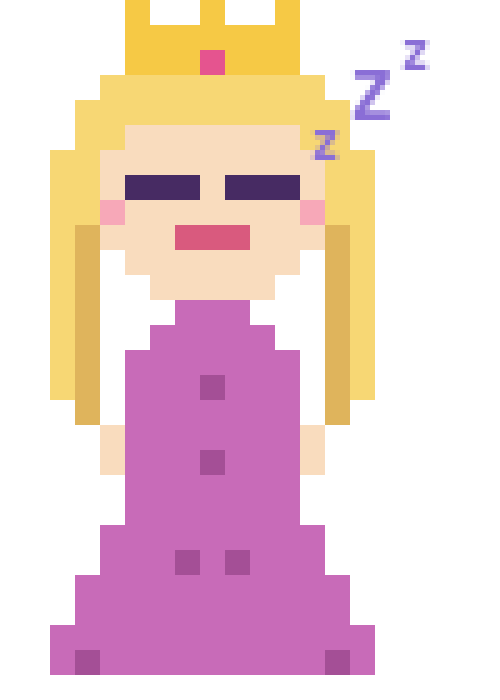
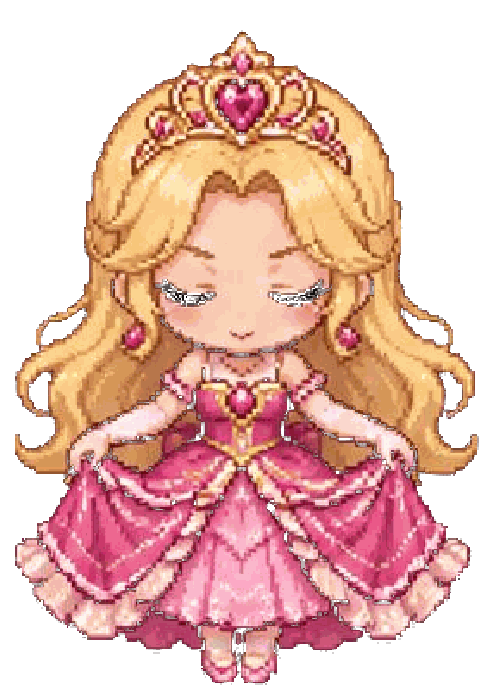
Real princess & backdrop art for all scenes and poses (#24)
* Replace placeholder pose art with chibi princess cut-sheet slices

Sliced the supplied 6x5 chibi pixel-art cut sheet, keyed out the flat
dark-purple background to transparency, and mapped the eight expressions
that best fit each pose's mood into art/poses/*.png (500x700 RGBA,
bottom-anchored to match the scene compositing):

  phone    -> bored lounging on the chaise (unimpressed)
  hair     -> preening with a hand mirror (neutral)
  nap      -> eyes closed, serene
  music    -> singing, eyes shut (smile)
  tv       -> flat zoned-out stare (neutral)
  nails    -> admiring her extended hand (unimpressed)
  snack    -> delighted, hands on cheeks, hearts (happy)
  daydream -> dreamy wink with a heart (smile)

Quantized to keep the set lean (1.7 MB -> 477 KB total). These remain
placeholders; handcrafted art can drop into the same filenames later.

Claude-Session: https://claude.ai/code/session_01WQm6xGzwZq7N4pC77Y4A7U

* Real backdrop art for all 10 scenes + 6 more princess poses

Backgrounds: sliced the supplied "Royal Princess Collection" pixel-art
sheet into its 10 panels, cropped each to the stage's 5:7 (biased to keep
ceilings/windows/castles), and installed them as the scene backdrops.
Six panels mapped straight onto existing scenes (throne, bedroom, garden,
library, balcony=night terrace, bath=former hot springs). The three
scenes with no match on the sheet (beach/market/meadow) were re-themed to
the unused rooms and given matching names, emoji, and flavor lines:
[…]

diff --git a/companion.js b/companion.js
@@ -27,16 +27,16 @@ window.COMPANION = (() => {
   // image: set to "art/scenes/<id>.png" when artwork is ready.
 
   const SCENES = [
-    { id: "beach", name: "Royal Beach Day", emoji: "🏖", sky: ["#7fd4f7", "#c8ecff"], ground: "#f7e3b0", image: "art/scenes/beach.png" },
-    { id: "bedroom", name: "Her Chambers", emoji: "🛏", sky: ["#eddcf8", "#f9eeff"], ground: "#d9b9ec", image: "art/scenes/bedroom.png" },
-    { id: "garden", name: "Castle Garden", emoji: "🌸", sky: ["#c2e9ff", "#eaf8da"], ground: "#90cf80", image: "art/scenes/garden.png" },
     { id: "throne", name: "Throne Room", emoji: "👑", sky: ["#f6dfdf", "#f1d0d0"], ground: "#caaa6b", image: "art/scenes/throne.png" },
+    { id: "bedroom", name: "Her Chambers", emoji: "🛏", sky: ["#eddcf8", "#f9eeff"], ground: "#d9b9ec", image: "art/scenes/bedroom.png" },
+    { id: "terrace", name: "Sunlit Terrace", emoji: "☀", sky: ["#8fd0f2", "#cdeeff"], ground: "#e9d6bb", image: "art/scenes/terrace.png" },
+    { id: "ballroom", name: "Grand Ballroom", emoji: "💃", sky: ["#f3dcea", "#f7e6d8"], ground: "#e6c9a8", image: "art/scenes/ballroom.png" },
+    { id: "garden", name: "Castle Garden", emoji: "🌸", sky: ["#c2e9ff", "#eaf8da"], ground: "#90cf80", image: "art/scenes/garden.png" },
     { id: "library", name: "Royal Library", emoji: "📚", sky: ["#e9ddc9", "#f6efe1"], ground: "#a97d51", image: "art/scenes/library.png" },
-    { id: "kitchen", name: "Palace Kitchen", emoji: "🧁", sky: ["#fff1e1", "#ffe5ed"], ground: "#e1b991", image: "art/scenes/kitchen.png" },
+    { id: "dressing", name: "Dressing Room", emoji: "👗", sky: ["#f7e2ee", "#fbeef6"], ground: "#e6bcd6", image: "art/scenes/dressing.png" },
+    { id: "bath", name: "Royal Bath", emoji: "🛁", sky: ["#dcecf7", "#eef6ff"], ground: "#cbd9e6", image: "art/scenes/bath.png" },
     { id: "balcony", name: "Moonlit Balcony", emoji: "🌙", sky: ["#2b2b5b", "#4b4b8b"], ground: "#3b3b6b", image: "art/scenes/balcony.png" },
-    { id: "hotspring", name: "Hot Springs", emoji: "♨", sky: ["#d0efe9", "#e9f8f5"], ground: "#89c5b9", image: "art/scenes/hotspring.png" },
-    { id: "market", name: "Village Market", emoji: "🎪", sky: ["#ffe9c9", "#fff5dd"], ground: "#d9a979", image: "art/scenes/market.png" },
-    { id: "meadow", name: "Butterfly Meadow", emoji: "🦋", sky: ["#c9e9ff", "#e9ffd9"], ground: "#99d989", image: "art/scenes/meadow.png" },
+    { id: "tearoom", name: "Tea Room", emoji: "🫖", sky: ["#fce6ef", "#fff2f7"], ground: "#e9c7d6", image: "art/scenes/tearoom.png" },
   ];
 
   // Stable scene per calendar day: she "goes somewhere" each morning.
@@ -59,6 +59,12 @@ window.COMPANION = (() => {
     { id: "nails", label: "painting her nails 💅", mood: "unimpressed", image: "art/poses/nails.png" },
     { id: "snack", label: "nibbling royal pastries 🍰", mood: "happy", image: "art/poses/snack.png" },
     { id: "daydream", label: "daydreaming ☁", mood: "smile", image: "art/poses/daydream.png" },
+    { id: "scepter", label: "brandishing her scepter ✨", mood: "happy", image: "art/poses/scepter.png" },
+    { id: "command", label: "issuing royal commands 📜", mood: "neutral", image: "art/poses/command.png" },
+    { id: "sulk", label: "sulking, arms crossed 😤", mood: "unimpressed", image: "art/poses/sulk.png" },
+    { id: "gracious", label: "feeling gracious 💖", mood: "happy", image: "art/poses/gracious.png" },
+    { id: "tantrum", label: "having a royal tantrum 💢", mood: "unimpressed", image: "art/poses/tantrum.png" },
+    { id: "silent", label: "giving you the silent treatment 🙄", mood: "unimpressed", image: "art/poses/silent.png" },
   ];
 
   function randomPose() {
@@ -70,46 +76,48 @@ window.COMPANION = (() => {
   // and what she's doing. Keyed by scene/pose id.
 
   const SCENE_LINES = {
-    beach: [
-      "Uh, yeah I'm at the beach. Get over it. 🏖",
-      "Royal beach day. The ocean understands me. You could learn from the ocean.",
-      "I'd say 'wish you were here' but the sand is judgmental and so am I.",
+    throne: [
+      "You stand before the throne. State your business. Is it tasks? It better be tasks. 👑",
+      "Throne room day. I'm feeling extra official, so consider everything I say a decree.",
     ],
     bedroom: [
       "You're in my CHAMBERS. Knock next time. There's no door. Find one.",
       "I was this close to a world-class nap and then your face appeared.",
     ],
+    terrace: [
+      "Sunlit terrace today. The view is breathtaking. So am I. Don't make it weird. ☀",
+      "I'm taking the royal air out here. It's imported. You wouldn't understand.",
+      "The castle looks so pretty from up here. Almost as pretty as me. Almost.",
+    ],
+    ballroom: [
+      "Grand ballroom day. I'd offer you a dance, but you haven't earned a single step. Tasks. 💃",
+      "This floor was waxed for MY reflection. Admire it from the doorway, peasant.",
+      "A whole ballroom and no one to waltz with but my own fabulousness. Tragic. Iconic.",
+    ],
     garden: [
       "The roses bloomed for me today. What have YOU done for me today? 🌸",
       "Garden day. Even the butterflies have better follow-through than you.",
-    ],
-    throne: [
-      "You stand before the throne. State your business. Is it tasks? It better be tasks. 👑",
-      "Throne room day. I'm feeling extra official, so consider everything I say a decree.",
     ],
     library: [
       "Shhh. It's library day. Whisper your productivity to me. 📚",
       "I'm reading a book about people who finish what they start. Fiction, obviously.",
     ],
-    kitchen: [
-      "The royal bakers let me frost things today. The kingdom may not survive. 🧁",
-      "I'm in the kitchen 'supervising.' Supervising means eating. Don't tell the chef.",
+    dressing: [
+      "Dressing room day. Four hundred gowns and 'nothing to wear.' Both facts are true. 👗",
+      "I'm trying on tiaras. This is exhausting labor. Where's YOUR labor? The tasks. Go.",
+      "Mirror, mirror — yes, obviously me. Next question. Did you do your tasks?",
+    ],
+    bath: [
+      "Royal bath day. I'm soaking. YOU should be scrubbing that to-do list. Balance. 🛁",
+      "The bubbles are imported and the judgment is complimentary. Get to work.",
     ],
     balcony: [
       "Moonlit balcony. Very romantic. Very wasted on you. 🌙",
       "I count stars out here. There are more stars than your completed tasks. By a lot.",
     ],
-    hotspring: [
-      "Hot springs day. I'm relaxing. YOU should be working. The system works. ♨",
-      "The steam is great for royal skin. The judgment is great for your motivation.",
-    ],
-    market: [
-      "Village market day! I pointed at things and the royal purse wept. 🎪",
-      "A merchant tried to overcharge me. ME. He's a jester now. Career change.",
-    ],
-    meadow: [
-      "Butterfly meadow. One landed on my crown. Nature recognizes rank. 🦋",
-      "It's meadow day. I'm frolicking. Regally. There's a technique to it.",
+    tearoom: [
+      "Tea room day. Pinkies up, tasks done. That's the order. Don't improvise. 🫖",
+      "The pastries are for finishers. You've finished... nothing. Awkward. For you.",
     ],
   };
 
@@ -146,6 +154,32 @@ window.COMPANION = (() => {
     daydream: [
       "*staring into the distance* I was somewhere better. Now I'm here. With you. ☁",
       "I was daydreaming about a kingdom where everyone finishes their tasks. Wild fantasy stuff.",
+    ],
+    scepter: [
+      "*twirls scepter* One bonk and you're a frog. Behave. Do tasks. ✨",
+      "This scepter is solid gold and cost more than your whole to-do list is worth.",
+      "I knight thee... nobody. Come back when you've finished something.",
+    ],
+    command: [
+      "You. Yes, you. I've decided your next task. Do it. That's the decree. 📜",
+      "*pointing* I'm not bossy, I'm the boss. There's a crown-shaped difference.",
+    ],
+    sulk: [
+      "*arms crossed* I'm not mad. I'm just... royally disappointed. In you. 😤",
+      "Hmph. I'll unfold my arms when you fold some tasks into 'done.'",
+    ],
+    gracious: [
+      "*graciously* You may approach. I'm in a GOOD mood. Rare. Historic. Don't ruin it. 💖",
+      "Behold, benevolence! I'm being nice. Quick, do a task before it wears off.",
+    ],
+    tantrum: [
+      "*stomps* I want it done NOW and I wanted it done YESTERDAY! 💢",
+      "This is a royal tantrum. It is very dignified. IT IS. Now DO the task!",
+    ],
+    silent: [
+      "*facing away* ...",
+      "*won't turn around* I have nothing to say to someone with unfinished tasks. 🙄",
+      "*over her shoulder* Oh, NOW you want my attention. Do a task first.",
     ],
   };
 
